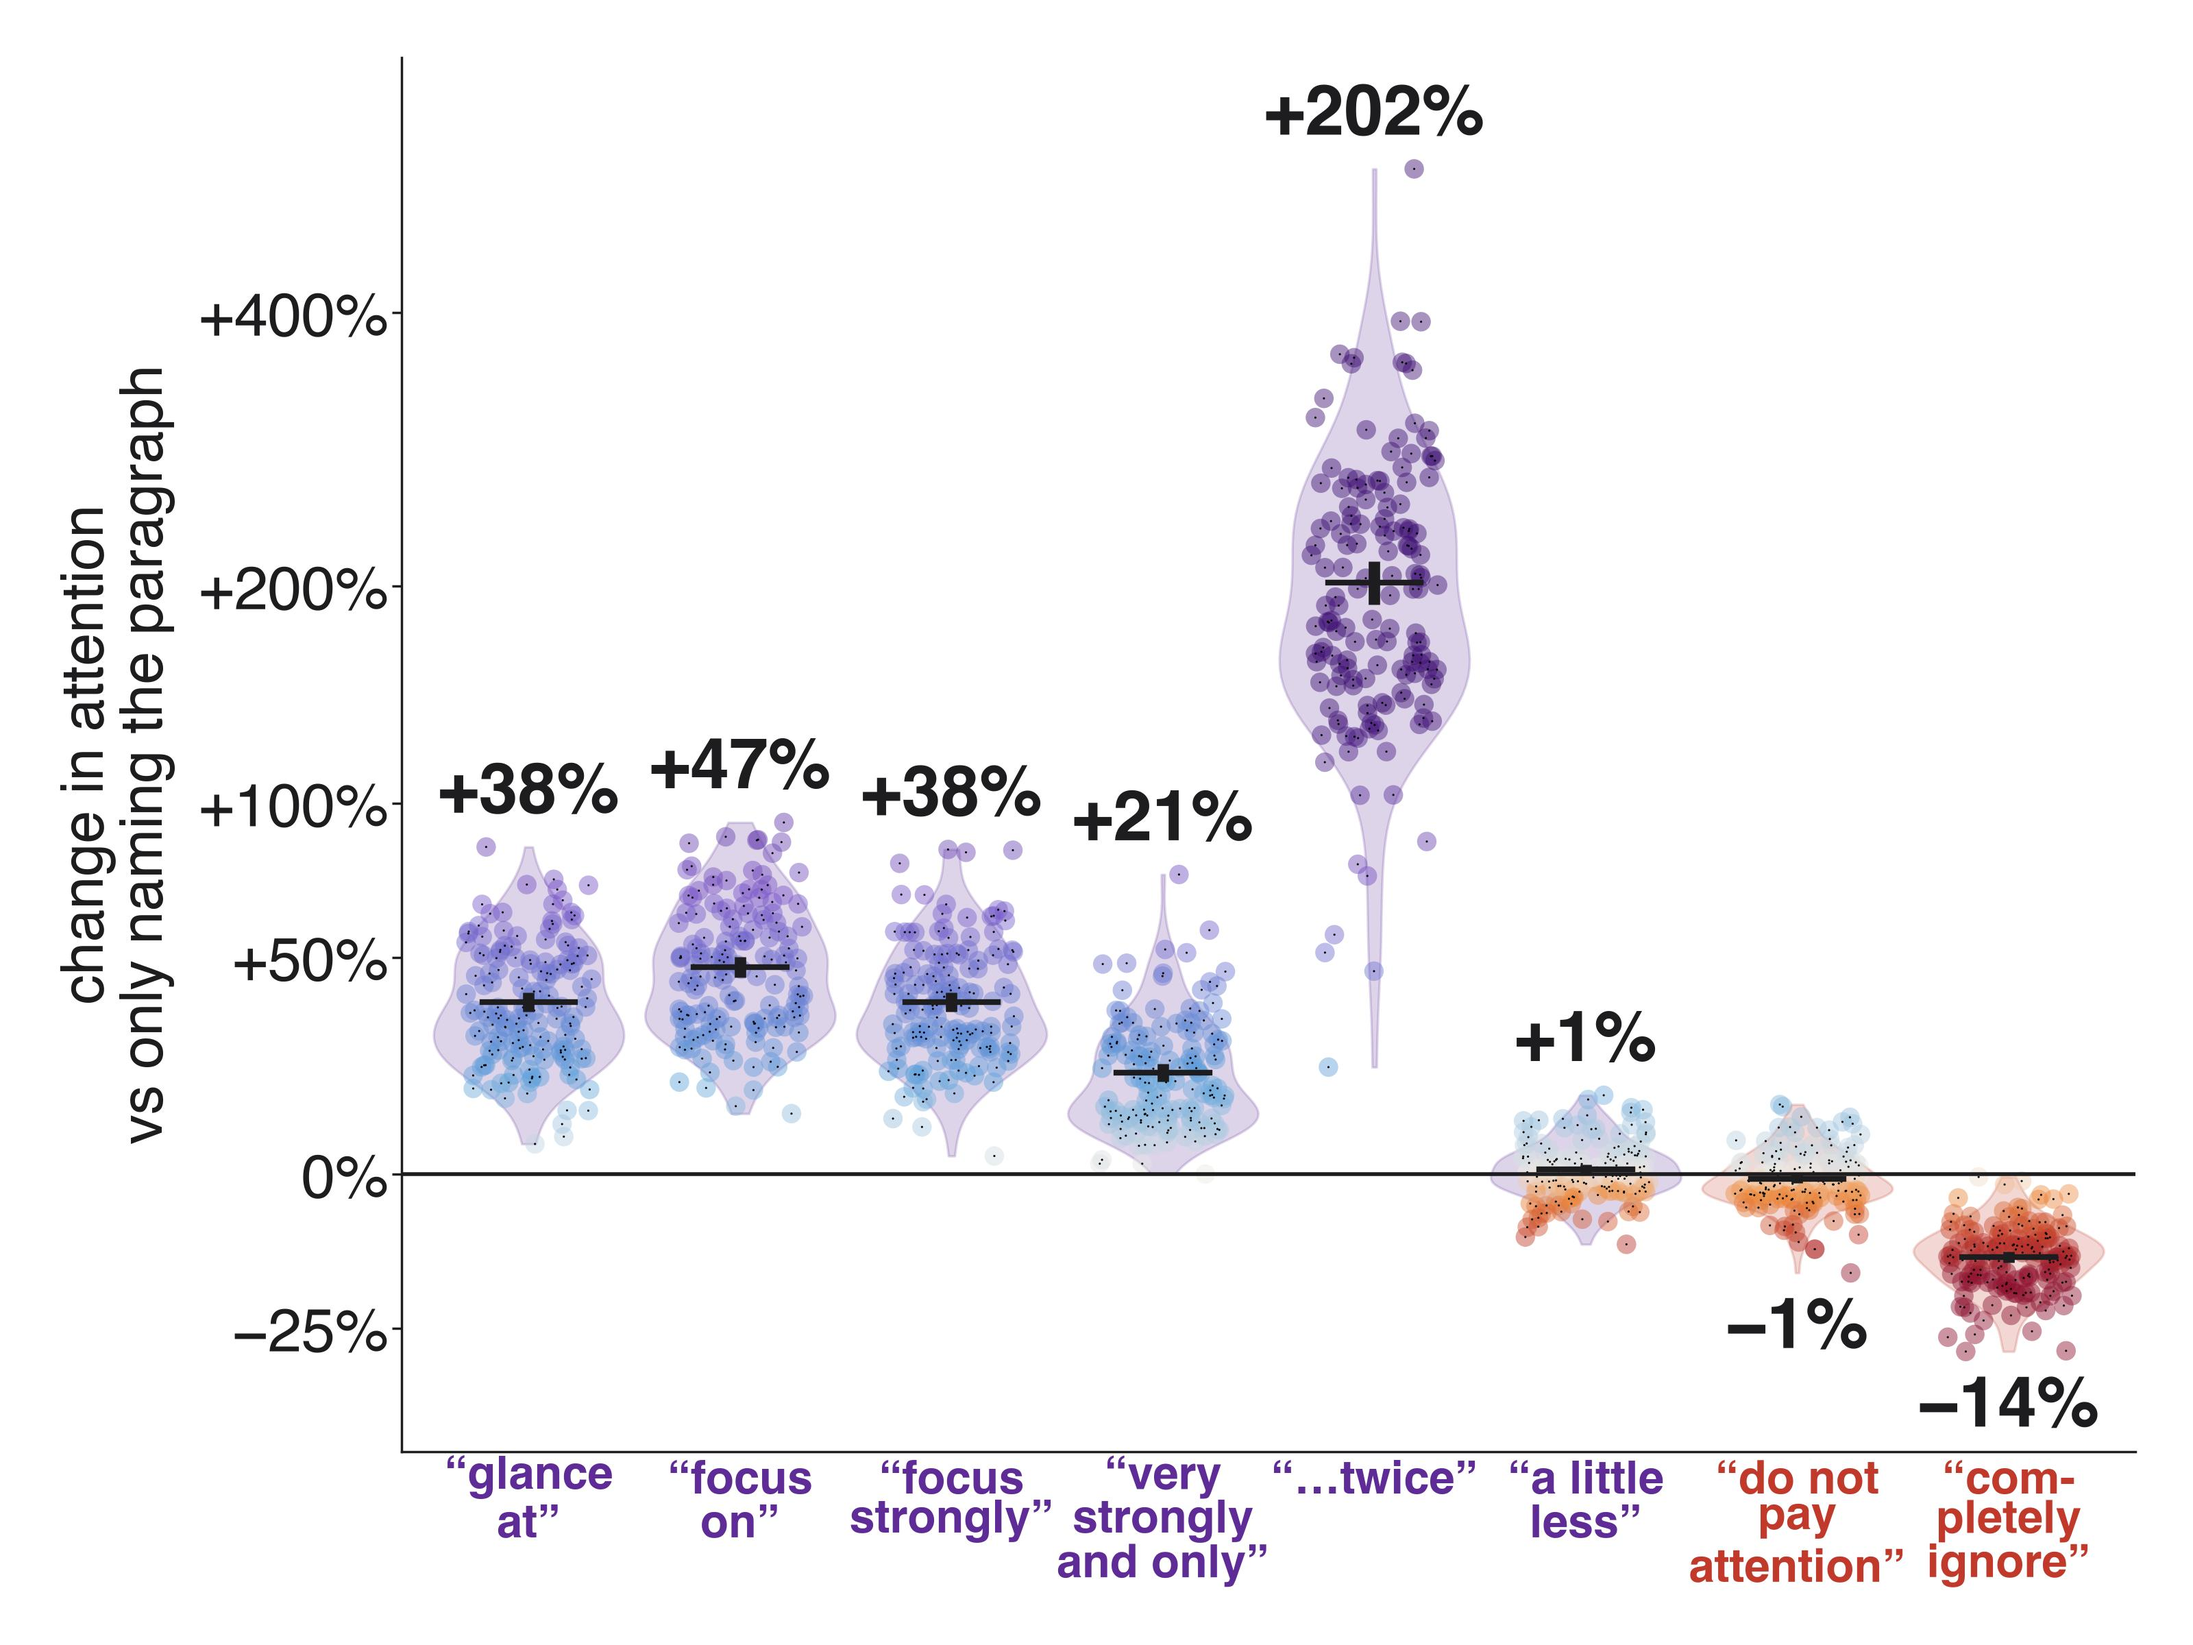
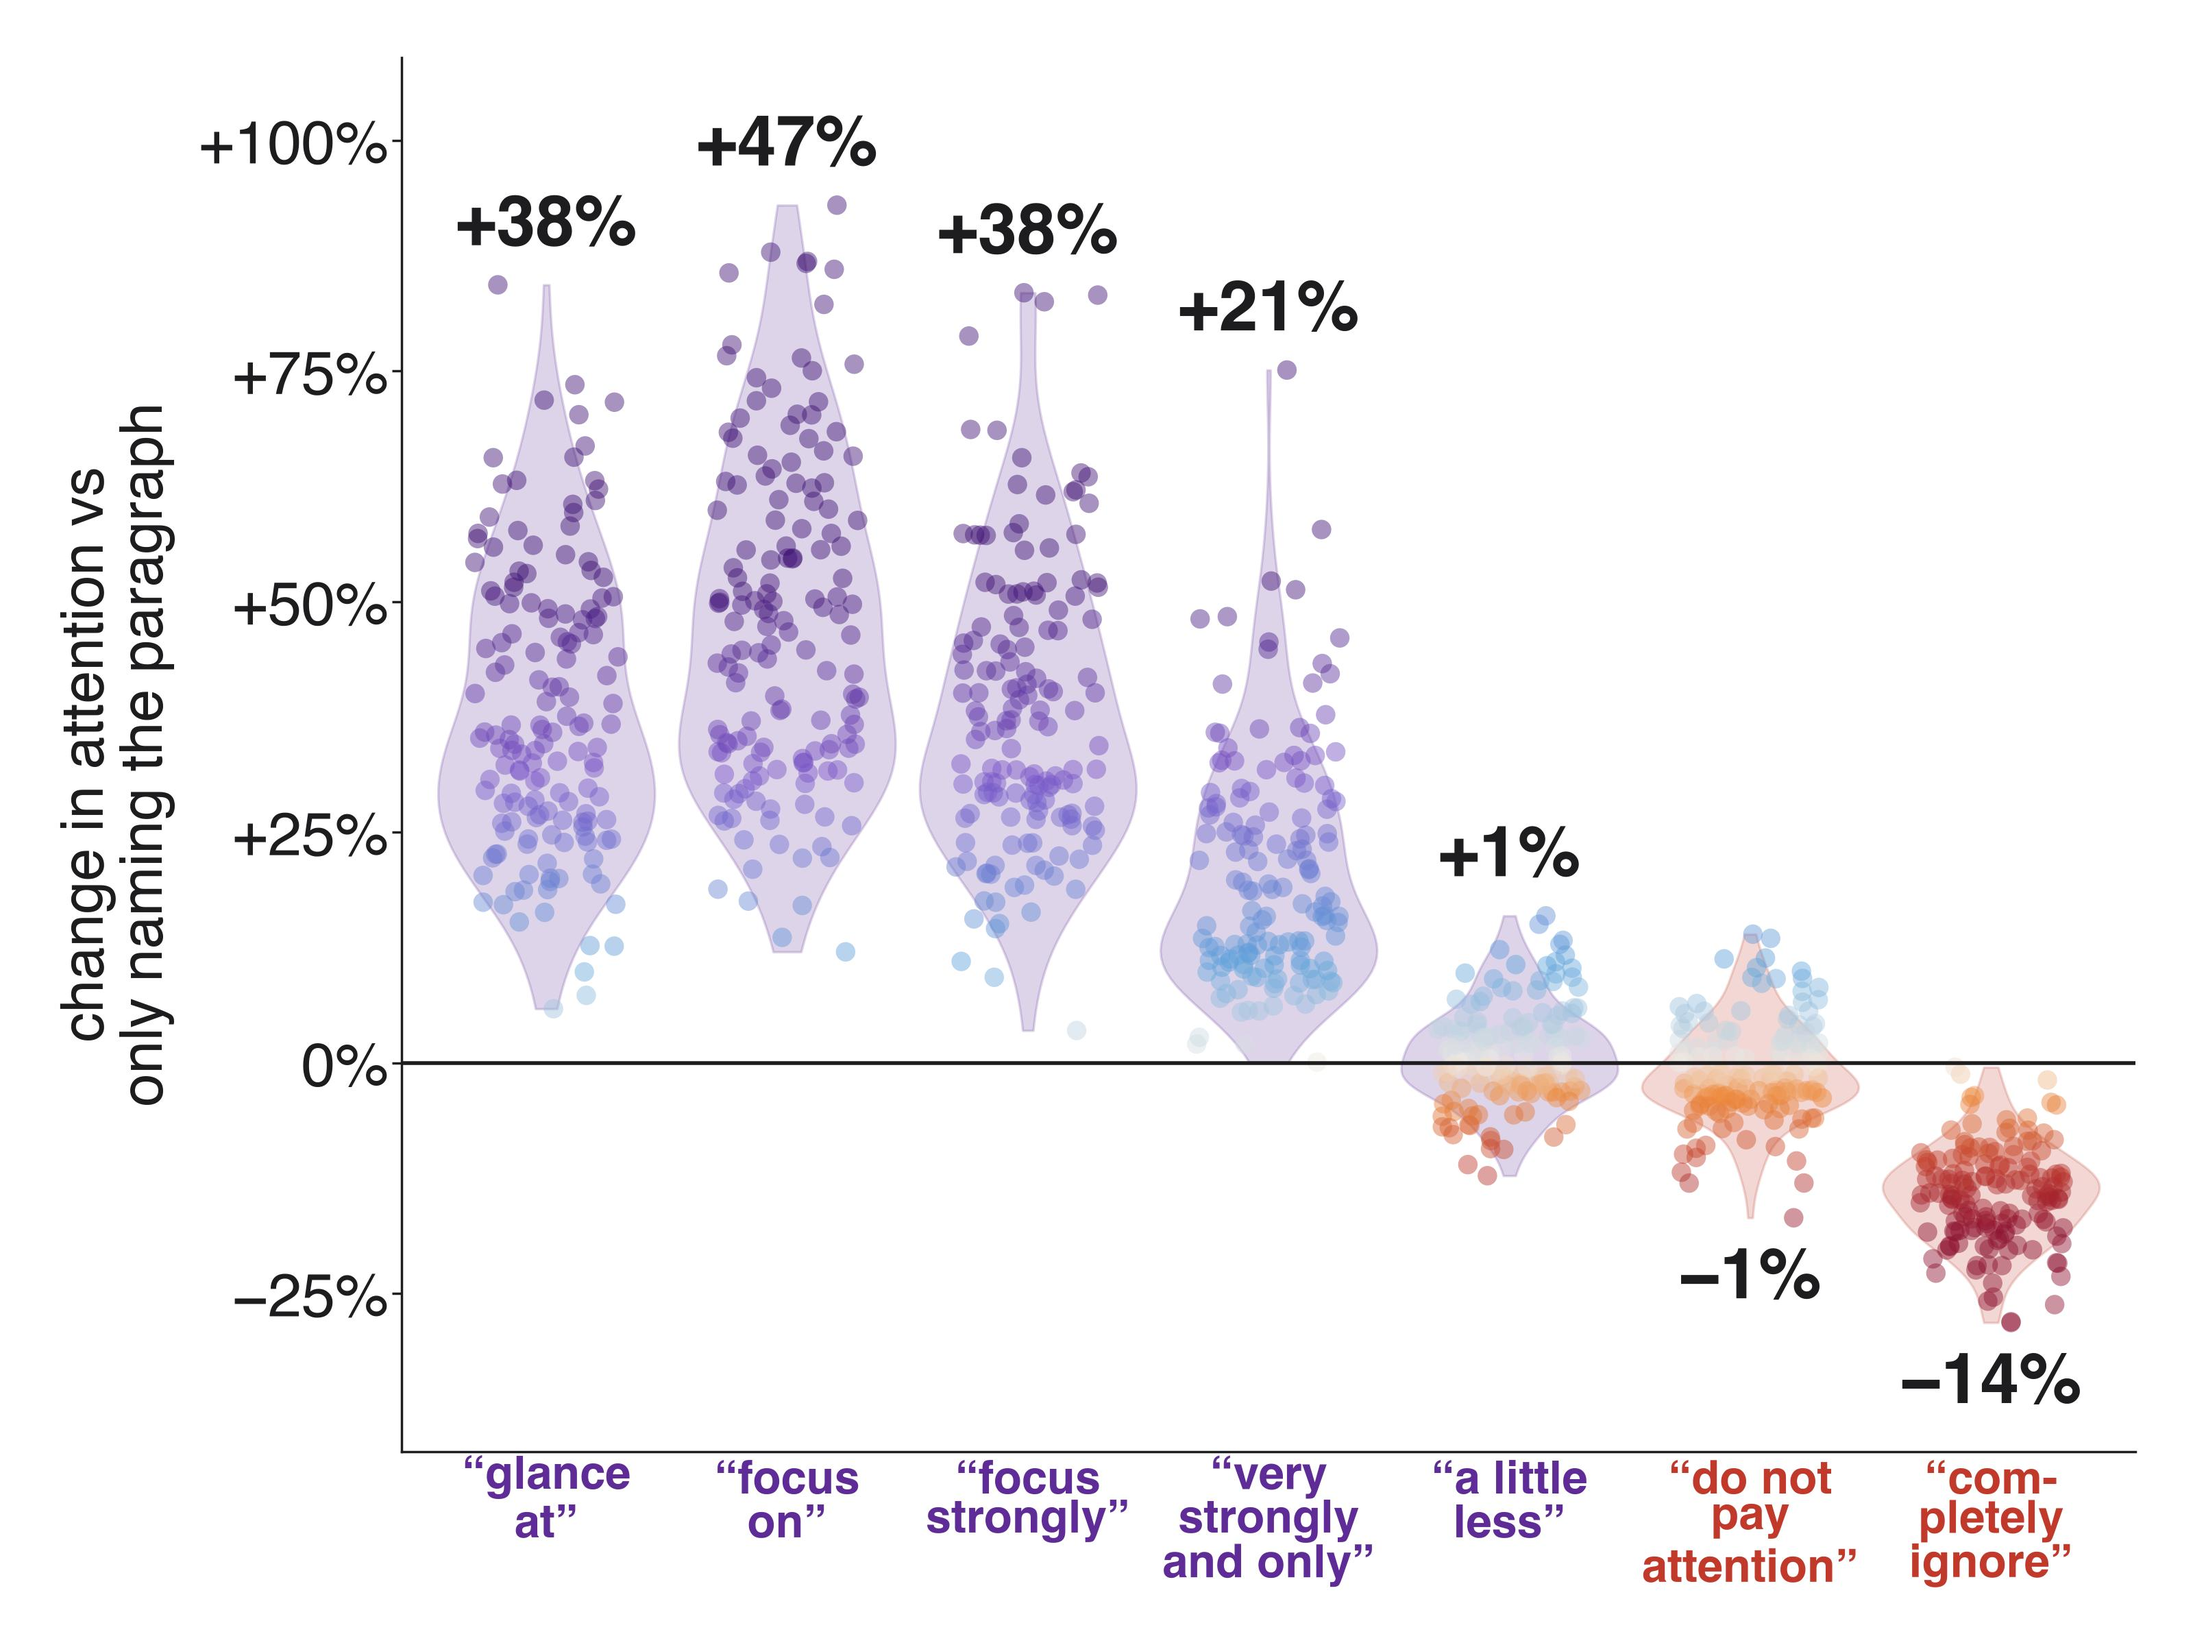
Ladder without the 'twice' rung; linear % scale, no bars in violins

diff --git a/results/qwen3-32b-dose/dose_fig.py b/results/qwen3-32b-dose/dose_fig.py
@@ -8,8 +8,8 @@ R = json.load(open(D + "/dose_results.json"))
 INK = pal.INK
 plt.rcParams.update({"font.family": "Helvetica", "font.size": 56, "text.color": INK, "axes.labelcolor": INK, "xtick.color": INK, "ytick.color": INK, "axes.edgecolor": INK})
 CS = [("2_glance", "“glance\nat”"), ("3_focus", "“focus\non”"), ("4_focus_strongly", "“focus\nstrongly”"), ("5_very_strongly_only", "“very\nstrongly\nand only”"),
-      ("6_twice", "“…twice”"), ("7_little_less", "“a little\nless”"), ("8_do_not", "“do not\npay\nattention”"), ("9_completely_ignore", "“com-\npletely\nignore”")]
-Z = [np.log2(1 + np.array(R["vs_mention"][c]["z"]) / 100) for c, _ in CS]  # plotted on a log scale; labels in % change
+      ("7_little_less", "“a little\nless”"), ("8_do_not", "“do not\npay\nattention”"), ("9_completely_ignore", "“com-\npletely\nignore”")]
+Z = [np.array(R["vs_mention"][c]["z"]) for c, _ in CS]  # % change, linear
 allz = np.concatenate(Z); lo_, hi_ = np.percentile(allz, 0.5), np.percentile(allz, 99.5)
 norm = pal.norm(np.percentile(allz, 3), np.percentile(allz, 90)); cmap = pal.DIV
 fig, a = plt.subplots(figsize=(32, 24)); rng = np.random.default_rng(1)
@@ -19,19 +19,17 @@ for p, ((c, lab), z) in enumerate(zip(CS, Z)):
     for b in v["bodies"]: b.set_facecolor(col); b.set_alpha(0.2); b.set_edgecolor(col); b.set_linewidth(2.5)
     xj = p + rng.uniform(-0.3, 0.3, len(z))
     a.scatter(xj, z, s=420, c=cmap(norm(z)), alpha=0.45, edgecolors="none", zorder=3)
-    a.scatter(xj, z, s=5, color="black", edgecolors="none", zorder=4)
     m, l, h = R["vs_mention"][c]["mean"]; mp = m
-    m, l, h = (np.log2(1 + t / 100) for t in (m, l, h))
-    a.plot([p, p], [l, h], color=INK, lw=12, solid_capstyle="butt", zorder=5); a.plot([p - 0.22, p + 0.22], [m, m], color=INK, lw=6, zorder=6)
     up = mp > 0
-    a.text(p, (z.max() + 0.06) if up else (z.min() - 0.06), MN(f"{mp:+.0f}%"), fontsize=74, fontweight="bold", ha="center", va="bottom" if up else "top", zorder=7)
+    a.text(p, (z.max() + 3) if up else (z.min() - 3), MN(f"{mp:+.0f}%"), fontsize=74, fontweight="bold", ha="center", va="bottom" if up else "top", zorder=7)
 a.axhline(0, color=INK, lw=4, zorder=4)
 a.set_xticks(range(len(CS))); a.set_xticklabels([l for _, l in CS], fontsize=50, fontweight="bold", linespacing=1.05)
 for t, (c, _) in zip(a.get_xticklabels(), CS): t.set_color(pal.PURPLE if R["vs_mention"][c]["mean"][0] > 0 else pal.RED)
-a.set_xlim(-0.6, len(CS) - 0.4); a.set_ylim(allz.min() - 0.27, allz.max() + 0.3)
-yt = [-25, 0, 50, 100, 200, 400]
-a.set_yticks([np.log2(1 + t / 100) for t in yt]); a.set_yticklabels([MN(f"{t:+d}%") if t else "0%" for t in yt])
-a.set_ylabel("change in attention\nvs only naming the paragraph", fontsize=62, labelpad=24)
+a.set_xlim(-0.6, len(CS) - 0.4); a.set_ylim(allz.min() - 14, allz.max() + 16)
+yt = [-25, 0, 25, 50, 75, 100]
+yt = [t for t in yt if allz.min() - 14 <= t <= allz.max() + 16]
+a.set_yticks(yt); a.set_yticklabels([MN(f"{t:+d}%") if t else "0%" for t in yt])
+a.set_ylabel("change in attention vs\nonly naming the paragraph", fontsize=62, labelpad=24)
 for s in ["top", "right"]: a.spines[s].set_visible(False)
 a.spines["left"].set_linewidth(2.5); a.spines["bottom"].set_linewidth(2.5); a.tick_params(width=2.5, length=10, labelsize=64); a.tick_params(axis="x", length=0, labelsize=48)
 fig.tight_layout(); fig.savefig(OUT + "dose.png", dpi=100, facecolor="white"); fig.savefig(OUT + "dose.jpg", dpi=100, facecolor="white")

diff --git a/README.md b/README.md
@@ -18,9 +18,9 @@ The mention line deserves its own look, because it turns out that just naming a 
 
 That changes how to read the "don't" instructions. "Do not pay attention to paragraph [Pk]." looks like it lowers attention if you compare it to a prompt with no instruction, but compared with a bare mention it does essentially nothing (−1%). Telling the model not to look at something mostly just reminds it the thing exists. Only the much more emphatic "Completely ignore paragraph [Pk]. Do not look at it at all." pushes attention below the mention, and even below no instruction.
 
-We then tried a ladder of wordings, all measured against the mention line on the same 150 prompts. Going up, stronger words do not give stronger focus. "Glance at" gives +38%, "focus your attention on" +47%, "focus strongly on" back down to +38%, and "focus very strongly and only on … Ignore everything else." only +21%. The one huge jump, +202%, comes from repeating that last line twice, once at the top of the prompt and once right after the question. That rung changes position as well as repetition, so it doesn't show that intensity works; it mostly shows that where the line sits matters. Going down, "pay a little less attention to" (+1%) and "do not pay attention to" (−1%) are no different from just naming the paragraph; only "completely ignore" (−14%) does anything.
+We then tried a ladder of wordings, all measured against the mention line on the same 150 prompts. Going up, stronger words do not give stronger focus. "Glance at" gives +38%, "focus your attention on" +47%, "focus strongly on" back down to +38%, and "focus very strongly and only on … Ignore everything else." only +21%. Going down, "pay a little less attention to" (+1%) and "do not pay attention to" (−1%) are no different from just naming the paragraph; only "completely ignore" (−14%) does anything.
 
-![Wording ladder: glance +38%, focus +47%, focus strongly +38%, very strongly and only +21%, twice +202%, a little less +1%, do not pay attention −1%, completely ignore −14%, all against only naming the paragraph](figures/dose.png)
+![Wording ladder: glance +38%, focus +47%, focus strongly +38%, very strongly and only +21%, a little less +1%, do not pay attention −1%, completely ignore −14%, all against only naming the paragraph](figures/dose.png)
 
 Is the boost really aimed at the paragraph that was named, or does any focus instruction just stir attention around? To check, we took 100 prompts and asked the model to focus on each of the four paragraphs in turn, keeping everything else fixed. The named paragraph gets the biggest boost in every row. Per prompt, the named paragraph gained the most of the four in 97% of cases (chance would be 25%). The boost spills onto neighbouring paragraphs, and it is smallest for P4, the paragraph right before the question.
 
@@ -42,7 +42,7 @@ But the boost does leave a trace in the report. Because the answer text is ident
 
 So, in short: Qwen3-32B can steer its attention on request, specifically and without changing its answer, mainly toward things and much less away from them, and stronger words don't help. It can't tell you where its attention went any better than a reader of the transcript, though a boost to its attention does leave a paragraph-specific, inverted mark on its report.
 
-Some honest limits. Almost everything here is one model, Qwen3-32B (Qwen3-8B, in `results/RESULT.md`, shows the same picture with weaker control), with one kind of filler text and one unrelated task. "Attention" is our summary, averaged over heads and a band of layers; the model has no reason to know that particular number, and a report could track some other aspect of attention we didn't measure. We asked the report question in one wording. The mention line controls for naming, but we can't fully rule out that part of the focus effect is the "[Pk]" in the instruction matching the "[Pk]" label by surface form. The "twice" rung mixes repetition with position. The direct boost is far outside normal operation, so a report that ignores it doesn't prove the model can't read natural variation. And we don't know why the trace in the report is inverted.
+Some honest limits. Almost everything here is one model, Qwen3-32B (Qwen3-8B, in `results/RESULT.md`, shows the same picture with weaker control), with one kind of filler text and one unrelated task. "Attention" is our summary, averaged over heads and a band of layers; the model has no reason to know that particular number, and a report could track some other aspect of attention we didn't measure. We asked the report question in one wording. The mention line controls for naming, but we can't fully rule out that part of the focus effect is the "[Pk]" in the instruction matching the "[Pk]" label by surface form. The direct boost is far outside normal operation, so a report that ignores it doesn't prove the model can't read natural variation. And we don't know why the trace in the report is inverted.
 
 ## Files
 
